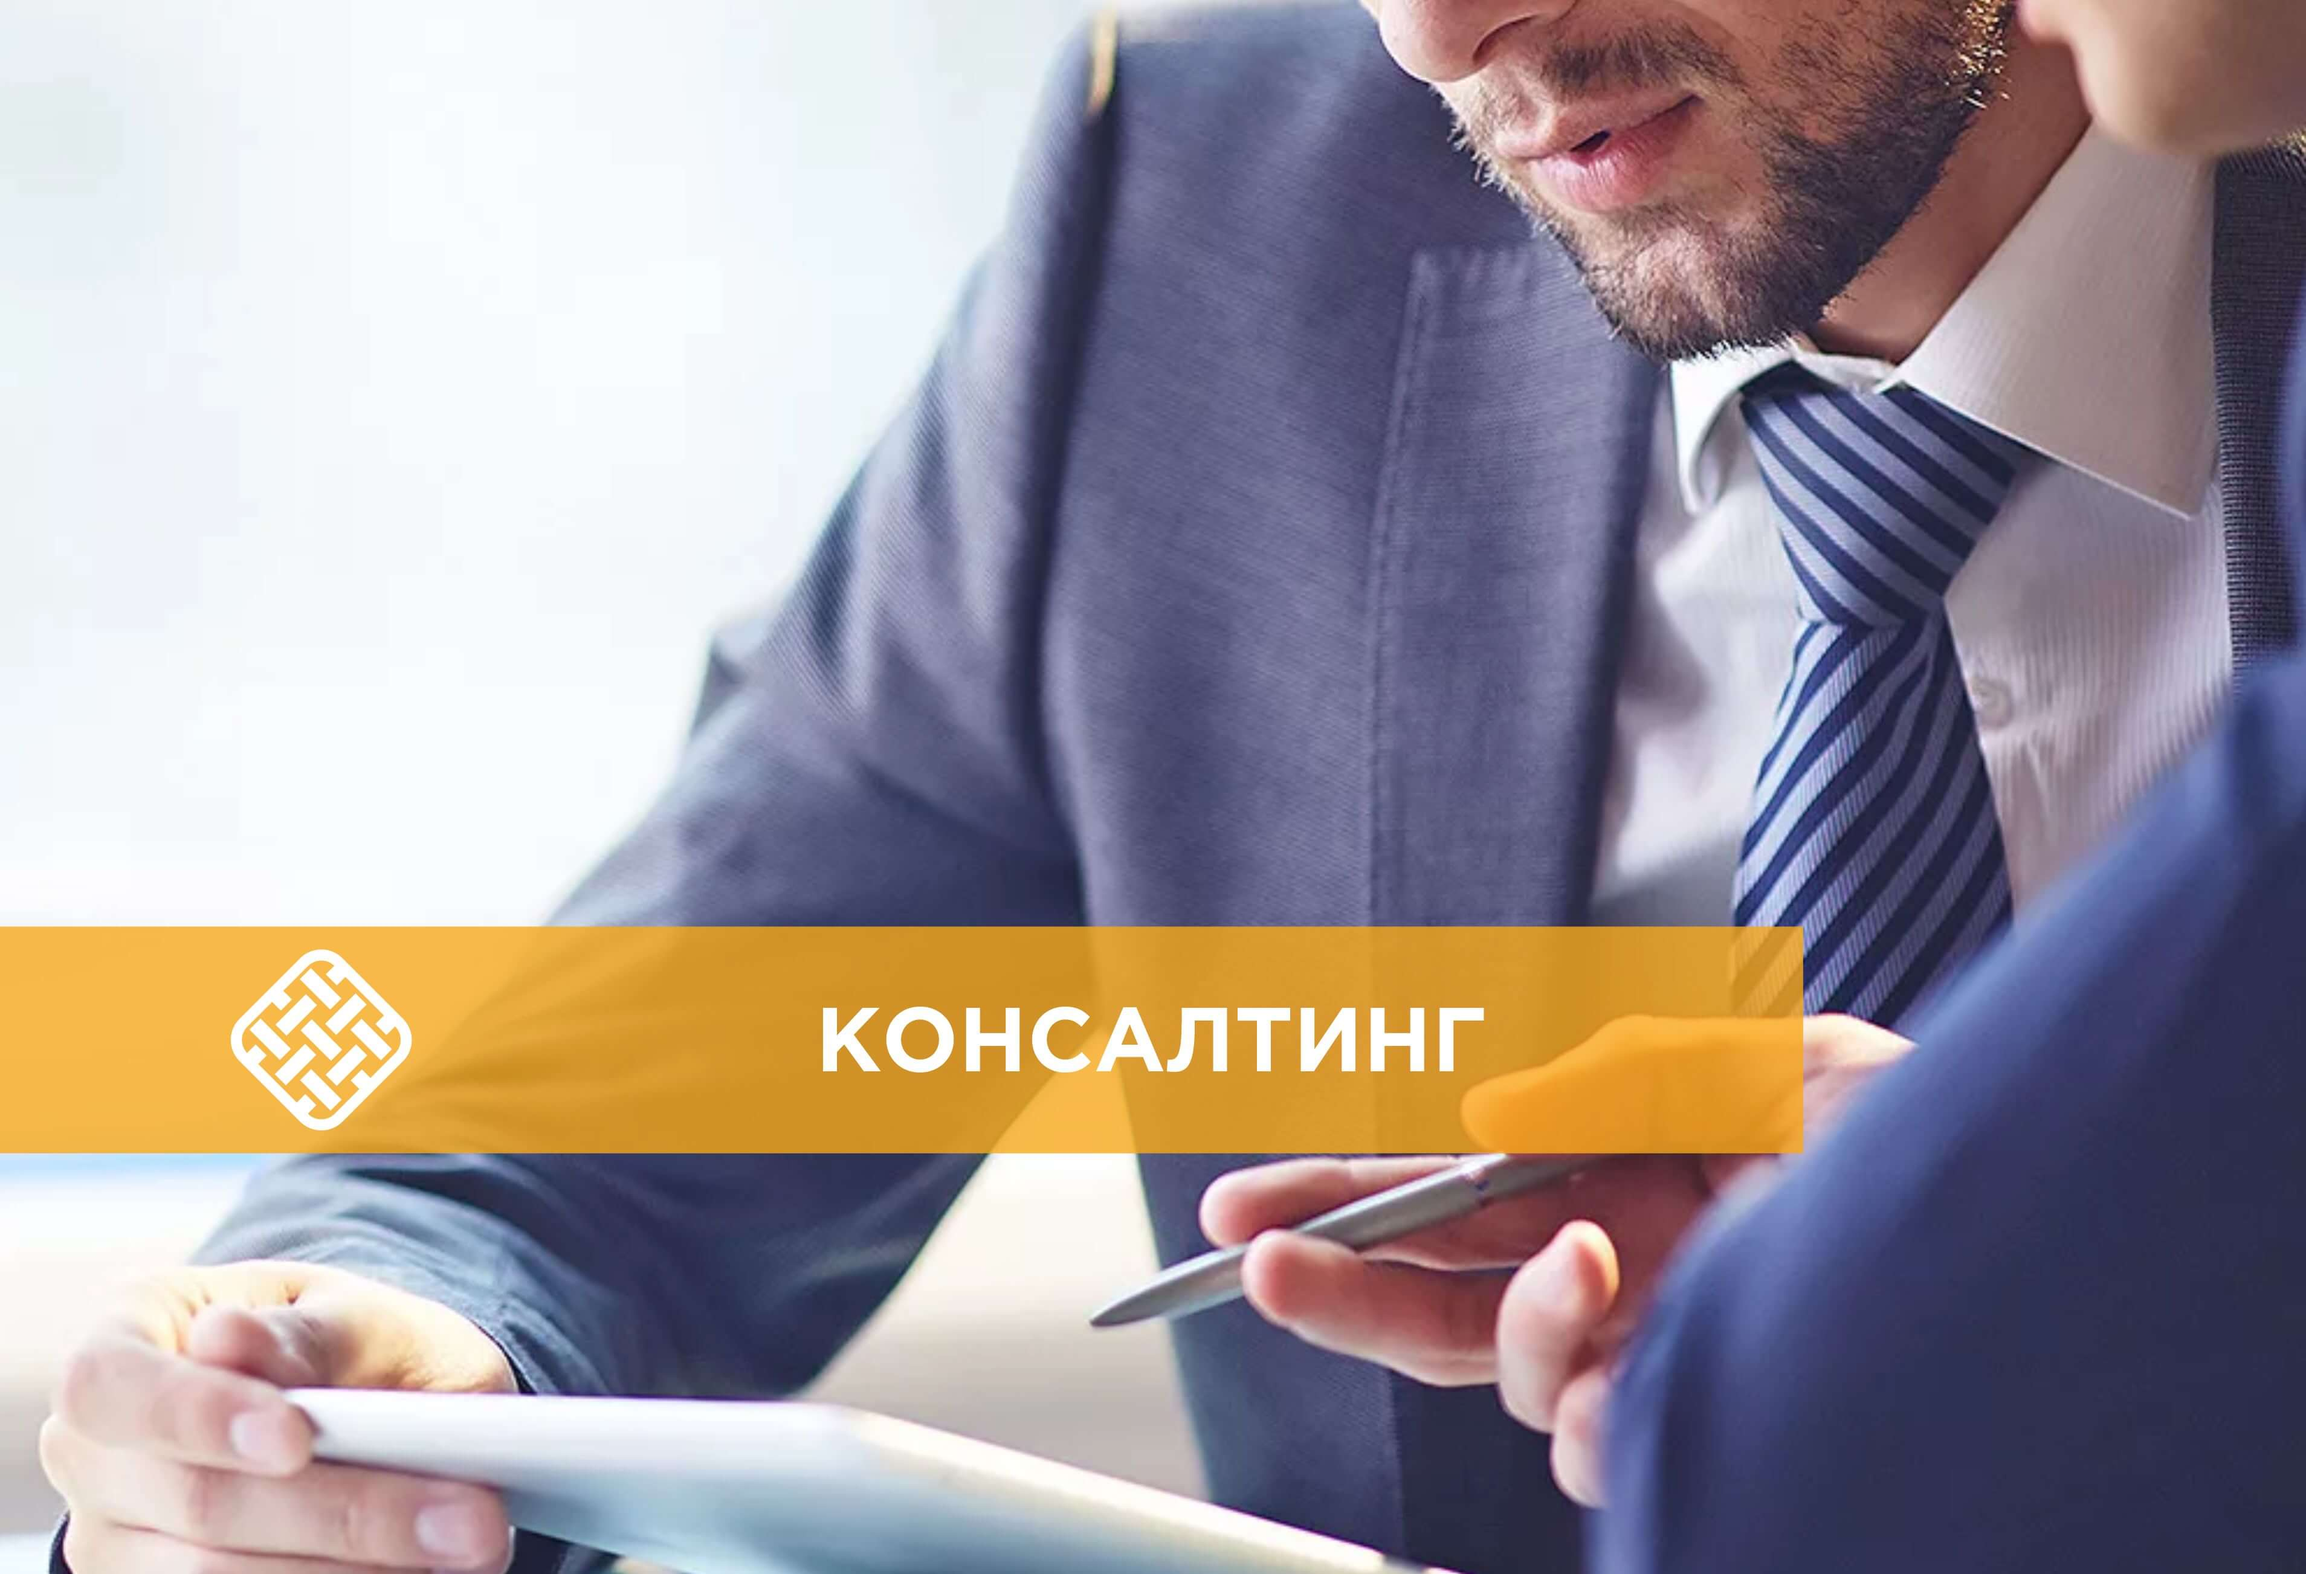
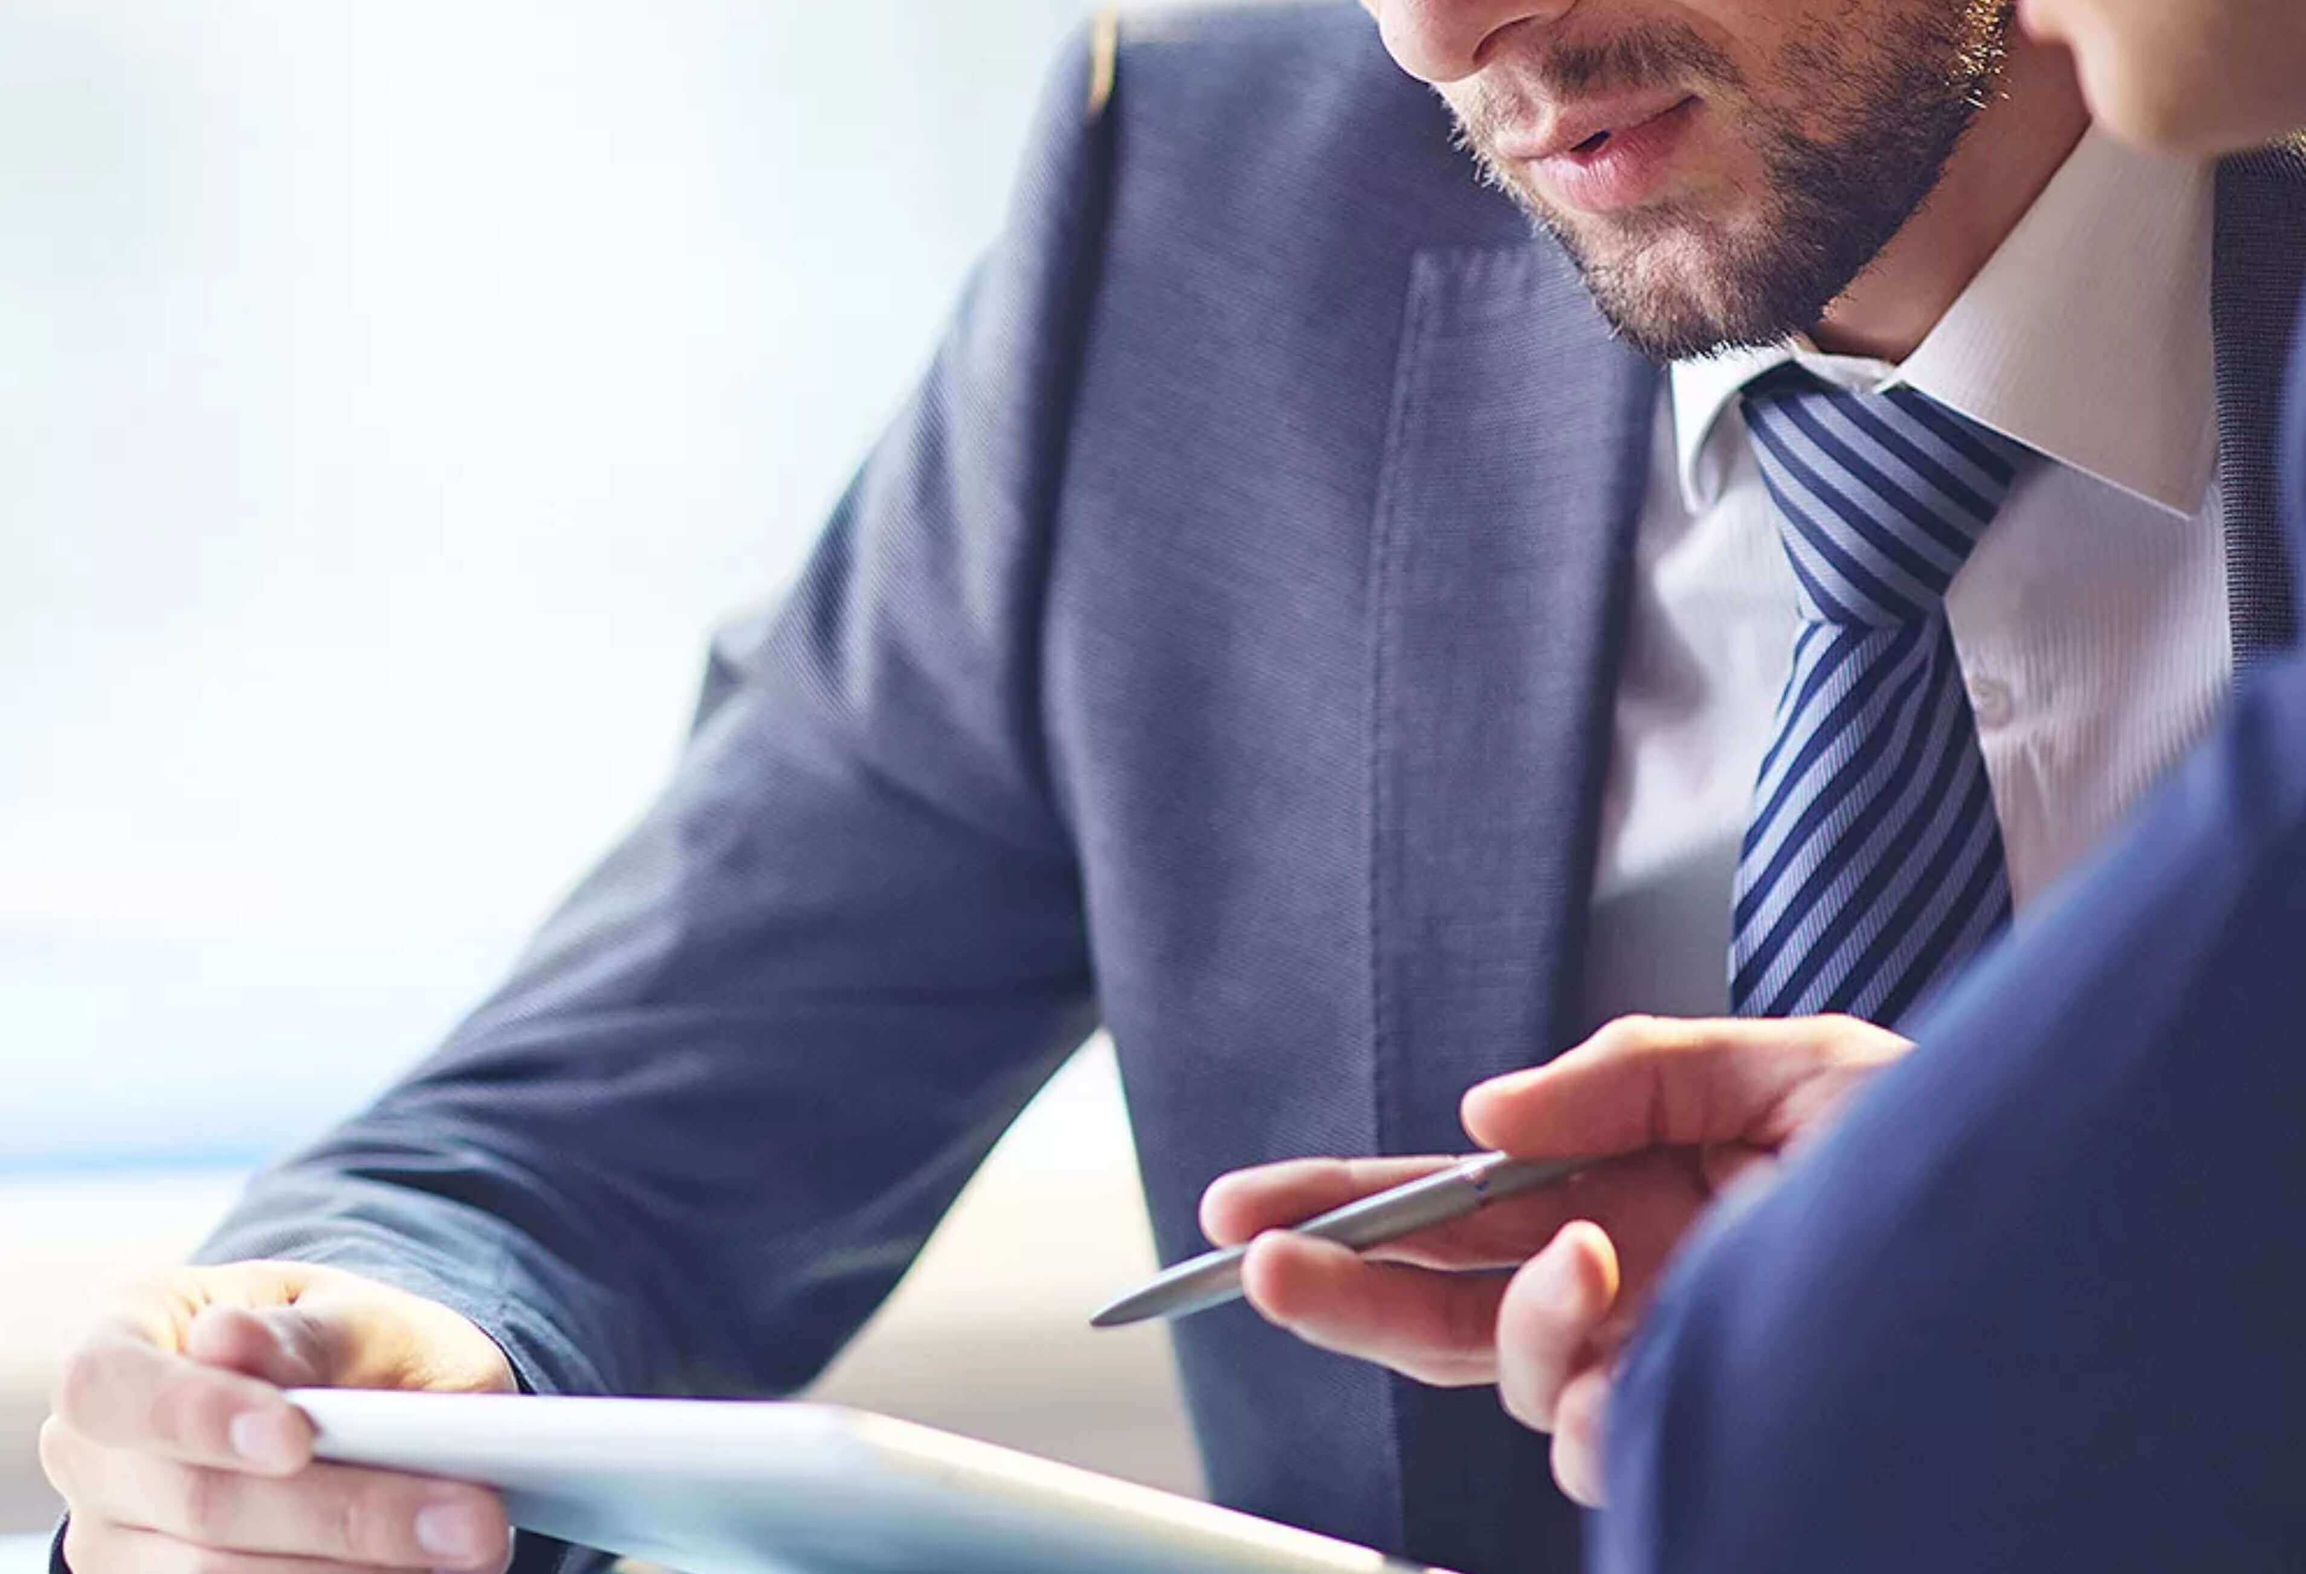
fx add photo

Changed region(s): [[0.0, 0.5908, 0.7796, 0.7463]]

diff --git a/resources/views/welcome.blade.php b/resources/views/welcome.blade.php
@@ -85,7 +85,7 @@
     <div class="pt-5">
         <div class="card-group">
             <div class="card border-0 rounded-0">
-                <img src="{{ asset('img/evaluation-quality-control-wine-taster-wine-alcoholic-drink.jpg') }}"
+                <img src="{{ asset('img/cons.jpg') }}"
                      class="card-img rounded-0" alt="...">
                 <div class="backdrop"></div>
                 <div class="card-img-overlay p-0">
@@ -96,7 +96,7 @@
                 </div>
             </div>
             <div class="card border-0 rounded-0">
-                <img src="{{ asset('img/daf-xf105-460-truck-white-daf.jpg') }}" class="card-img rounded-0" alt="...">
+                <img src="{{ asset('img/contr.jpg') }}" class="card-img rounded-0" alt="...">
                 <div class="backdrop"></div>
                 <div class="card-img-overlay p-0">
                     <div class="">
@@ -106,7 +106,7 @@
                 </div>
             </div>
             <div class="card border-0 rounded-0">
-                <img src="{{ asset('img/checklist.jpg') }}" class="card-img rounded-0" alt="...">
+                <img src="{{ asset('img/logi.jpg') }}" class="card-img rounded-0" alt="...">
                 <div class="backdrop"></div>
                 <div class="card-img-overlay p-0">
                     <div class="">
